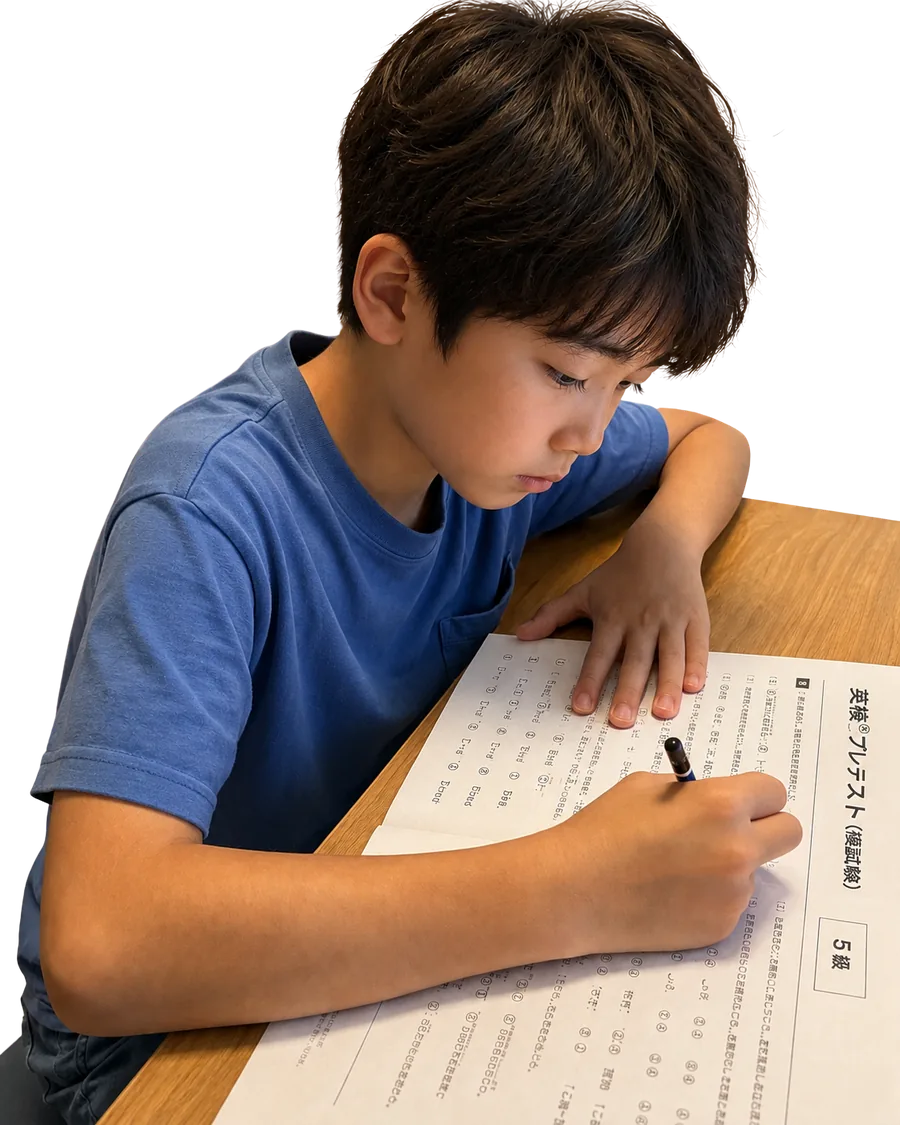
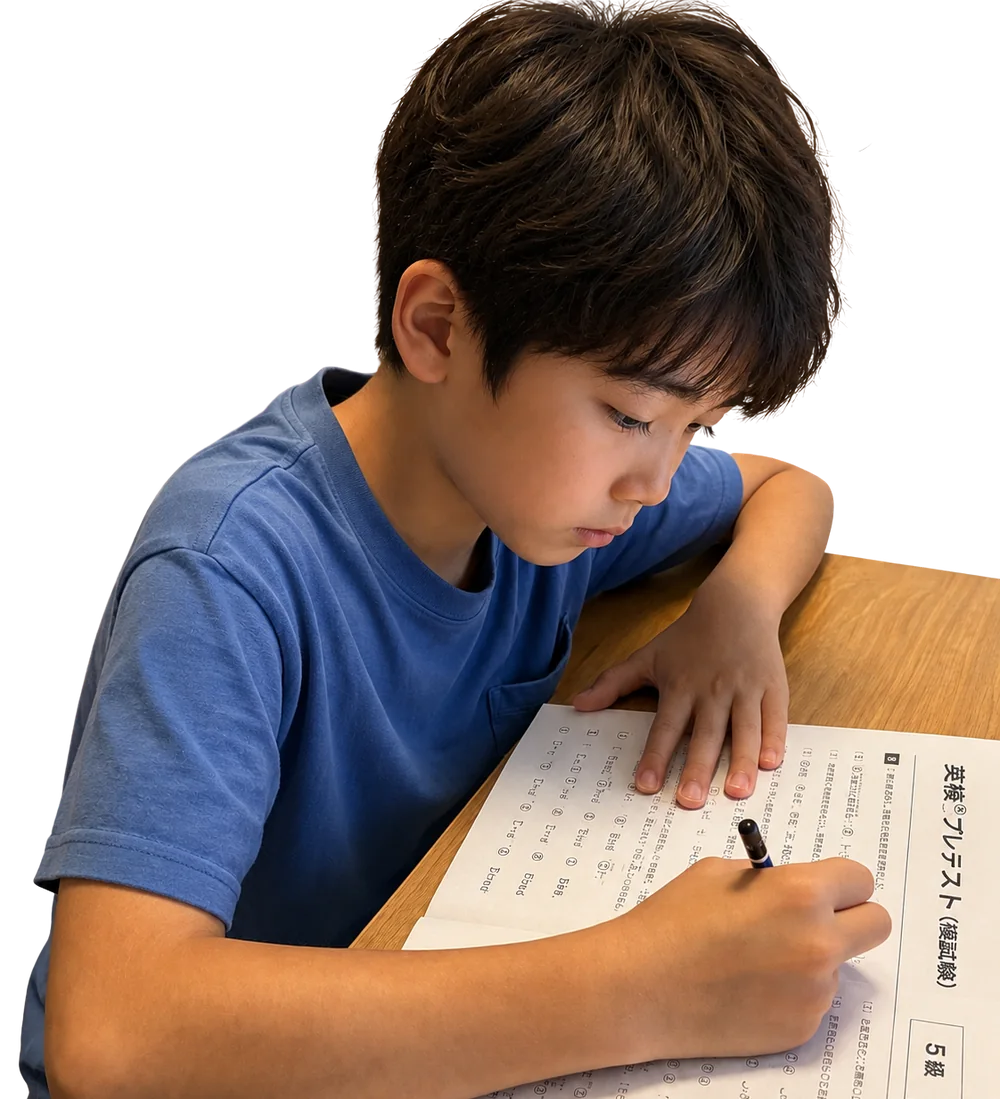
FV：時間の罫を左の段いっぱいに引いて写真と接するようにし、素材の下12%を詰めて横長寄りにする（隙間 110px→5px、1152-2560pxで一定）

diff --git a/docs/esl-pretest/index.html b/docs/esl-pretest/index.html
@@ -546,11 +546,11 @@ html:not(.js) .lm__i{transform:none}
 .hbe__ph img{width:100%;height:100%;object-fit:contain;object-position:0 0;display:block;
   /* 右と下の断面を短く溶かす。1440px超では写真の右端が版面の内側に来るので、
      逃がしきれない。ぼかしてしまえば「切り忘れ」に見えない */
-  -webkit-mask-image:linear-gradient(to right,#000 90%,transparent 99%),
-                     linear-gradient(to bottom,#000 93%,transparent 100%);
+  -webkit-mask-image:linear-gradient(to right,#000 97%,transparent 100%),
+                     linear-gradient(to bottom,#000 96%,transparent 100%);
   -webkit-mask-composite:source-in;
-          mask-image:linear-gradient(to right,#000 90%,transparent 99%),
-                     linear-gradient(to bottom,#000 93%,transparent 100%);
+          mask-image:linear-gradient(to right,#000 97%,transparent 100%),
+                     linear-gradient(to bottom,#000 96%,transparent 100%);
           mask-composite:intersect}
 
 /* 見出し */
@@ -577,10 +577,10 @@ html:not(.js) .lm__i{transform:none}
 .hbe__date em{font-style:normal;font-size:clamp(17px,1.7vw,25px);font-weight:900;
   color:var(--c-primary);letter-spacing:.06em}
 /* 2つの級の時間。罫1本ずつで分ける（箱にしない）。
-   ★幅は見出しの1行目に合わせる。ここが細いと、左の文字と右の写真のあいだに
-   何もない帯ができて「離れて見える」 */
-.hbe__times{margin-top:clamp(12px,1.5vw,20px);display:grid;gap:0;
-  width:min(100%, clamp(390px, 39vw, 560px))}
+   ★罫は左の段いっぱいに引く。ここで幅を絞ると、罫の右端と写真のあいだに
+   何もない帯ができて、左右が「離れて」見える。
+   罫が写真の縁まで伸びていれば、文字が短くても組は一続きに見える */
+.hbe__times{margin-top:clamp(12px,1.5vw,20px);display:grid;gap:0;width:100%}
 .hbe__times li{display:flex;align-items:baseline;justify-content:space-between;gap:12px;
   padding-block:clamp(7px,.9vw,11px);
   border-top:1px solid color-mix(in srgb,var(--c-ink) 14%,transparent)}

diff --git a/parts/hero/hero-blob-event/part.css b/parts/hero/hero-blob-event/part.css
@@ -47,11 +47,11 @@
 .hbe__ph img{width:100%;height:100%;object-fit:contain;object-position:0 0;display:block;
   /* 右と下の断面を短く溶かす。1440px超では写真の右端が版面の内側に来るので、
      逃がしきれない。ぼかしてしまえば「切り忘れ」に見えない */
-  -webkit-mask-image:linear-gradient(to right,#000 90%,transparent 99%),
-                     linear-gradient(to bottom,#000 93%,transparent 100%);
+  -webkit-mask-image:linear-gradient(to right,#000 97%,transparent 100%),
+                     linear-gradient(to bottom,#000 96%,transparent 100%);
   -webkit-mask-composite:source-in;
-          mask-image:linear-gradient(to right,#000 90%,transparent 99%),
-                     linear-gradient(to bottom,#000 93%,transparent 100%);
+          mask-image:linear-gradient(to right,#000 97%,transparent 100%),
+                     linear-gradient(to bottom,#000 96%,transparent 100%);
           mask-composite:intersect}
 
 /* 見出し */
@@ -78,10 +78,10 @@
 .hbe__date em{font-style:normal;font-size:clamp(17px,1.7vw,25px);font-weight:900;
   color:var(--c-primary);letter-spacing:.06em}
 /* 2つの級の時間。罫1本ずつで分ける（箱にしない）。
-   ★幅は見出しの1行目に合わせる。ここが細いと、左の文字と右の写真のあいだに
-   何もない帯ができて「離れて見える」 */
-.hbe__times{margin-top:clamp(12px,1.5vw,20px);display:grid;gap:0;
-  width:min(100%, clamp(390px, 39vw, 560px))}
+   ★罫は左の段いっぱいに引く。ここで幅を絞ると、罫の右端と写真のあいだに
+   何もない帯ができて、左右が「離れて」見える。
+   罫が写真の縁まで伸びていれば、文字が短くても組は一続きに見える */
+.hbe__times{margin-top:clamp(12px,1.5vw,20px);display:grid;gap:0;width:100%}
 .hbe__times li{display:flex;align-items:baseline;justify-content:space-between;gap:12px;
   padding-block:clamp(7px,.9vw,11px);
   border-top:1px solid color-mix(in srgb,var(--c-ink) 14%,transparent)}
